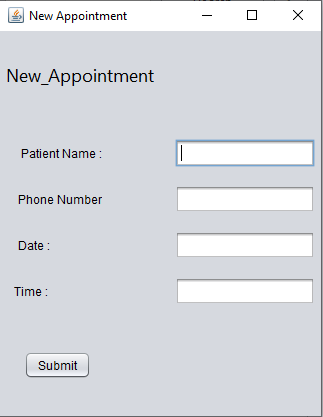
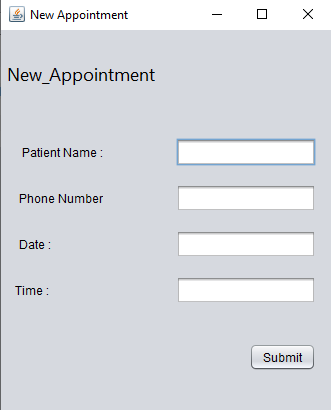
Updated design & readme

diff --git a/Ophthalmologist_System/src/GUI/New_Appointment.java b/Ophthalmologist_System/src/GUI/New_Appointment.java
@@ -127,31 +127,30 @@ public class New_Appointment extends javax.swing.JFrame {
             layout.createParallelGroup(javax.swing.GroupLayout.Alignment.LEADING)
             .addGroup(layout.createSequentialGroup()
                 .addContainerGap()
-                .addGroup(layout.createParallelGroup(javax.swing.GroupLayout.Alignment.LEADING)
-                    .addComponent(jLabel2)
+                .addGroup(layout.createParallelGroup(javax.swing.GroupLayout.Alignment.TRAILING)
+                    .addComponent(submit_btn)
                     .addGroup(layout.createSequentialGroup()
-                        .addGap(12, 12, 12)
                         .addGroup(layout.createParallelGroup(javax.swing.GroupLayout.Alignment.LEADING)
-                            .addComponent(jLabel5)
-                            .addGroup(layout.createParallelGroup(javax.swing.GroupLayout.Alignment.TRAILING)
-                                .addComponent(jLabel4)
-                                .addComponent(jLabel3))))
-                    .addGroup(javax.swing.GroupLayout.Alignment.TRAILING, layout.createSequentialGroup()
-                        .addPreferredGap(javax.swing.LayoutStyle.ComponentPlacement.RELATED)
-                        .addGroup(layout.createParallelGroup(javax.swing.GroupLayout.Alignment.LEADING)
-                            .addGroup(javax.swing.GroupLayout.Alignment.TRAILING, layout.createSequentialGroup()
-                                .addComponent(submit_btn)
-                                .addGap(63, 63, 63))
                             .addGroup(javax.swing.GroupLayout.Alignment.TRAILING, layout.createSequentialGroup()
                                 .addComponent(jLabel6)
-                                .addGap(106, 106, 106)))))
-                .addGap(21, 21, 21)
-                .addGroup(layout.createParallelGroup(javax.swing.GroupLayout.Alignment.LEADING, false)
-                    .addComponent(name_txt)
-                    .addComponent(phone_number_txt)
-                    .addComponent(date_txt)
-                    .addComponent(time_txt, javax.swing.GroupLayout.PREFERRED_SIZE, 140, javax.swing.GroupLayout.PREFERRED_SIZE))
-                .addContainerGap(javax.swing.GroupLayout.DEFAULT_SIZE, Short.MAX_VALUE))
+                                .addGap(127, 127, 127))
+                            .addGroup(layout.createSequentialGroup()
+                                .addGroup(layout.createParallelGroup(javax.swing.GroupLayout.Alignment.LEADING)
+                                    .addComponent(jLabel2)
+                                    .addGroup(layout.createSequentialGroup()
+                                        .addGap(12, 12, 12)
+                                        .addGroup(layout.createParallelGroup(javax.swing.GroupLayout.Alignment.LEADING)
+                                            .addComponent(jLabel5)
+                                            .addGroup(layout.createParallelGroup(javax.swing.GroupLayout.Alignment.TRAILING)
+                                                .addComponent(jLabel4)
+                                                .addComponent(jLabel3)))))
+                                .addGap(21, 21, 21)))
+                        .addGroup(layout.createParallelGroup(javax.swing.GroupLayout.Alignment.LEADING, false)
+                            .addComponent(name_txt)
+                            .addComponent(phone_number_txt)
+                            .addComponent(date_txt)
+                            .addComponent(time_txt, javax.swing.GroupLayout.PREFERRED_SIZE, 140, javax.swing.GroupLayout.PREFERRED_SIZE))))
+                .addContainerGap(15, Short.MAX_VALUE))
         );
         layout.setVerticalGroup(
             layout.createParallelGroup(javax.swing.GroupLayout.Alignment.LEADING)
@@ -174,9 +173,9 @@ public class New_Appointment extends javax.swing.JFrame {
                 .addGroup(layout.createParallelGroup(javax.swing.GroupLayout.Alignment.BASELINE)
                     .addComponent(jLabel6)
                     .addComponent(time_txt, javax.swing.GroupLayout.PREFERRED_SIZE, javax.swing.GroupLayout.DEFAULT_SIZE, javax.swing.GroupLayout.PREFERRED_SIZE))
-                .addGap(46, 46, 46)
+                .addGap(39, 39, 39)
                 .addComponent(submit_btn)
-                .addContainerGap(37, Short.MAX_VALUE))
+                .addContainerGap(39, Short.MAX_VALUE))
         );
 
         pack();

diff --git a/Ophthalmologist_System/src/GUI/Update_Result.java b/Ophthalmologist_System/src/GUI/Update_Result.java
@@ -27,6 +27,7 @@ public class Update_Result extends javax.swing.JFrame {
     public Update_Result() {
         initComponents();
         update_btn.setEnabled(false);
+        this.setTitle("Update Result");
     }
 
     /**

diff --git a/README.md b/README.md
@@ -1,2 +1,17 @@
 # Ophthalmologist_System
+
 Interactive System built with java to store &amp; organize Ophthalmologist's information.
+
+<img src="assets/admin-panel-img.png">
+
+<!-- <img src="assets/update-result-img.png"> -->
+
+<!-- <img src="assets/new-appointment-img.png"> -->
+
+<table>
+  <tr>
+    <th><img src="assets/update-result-img.png"></th>
+    <th><img src="assets/new-appointment-img.png"></th>
+  </tr>
+  
+</table>
